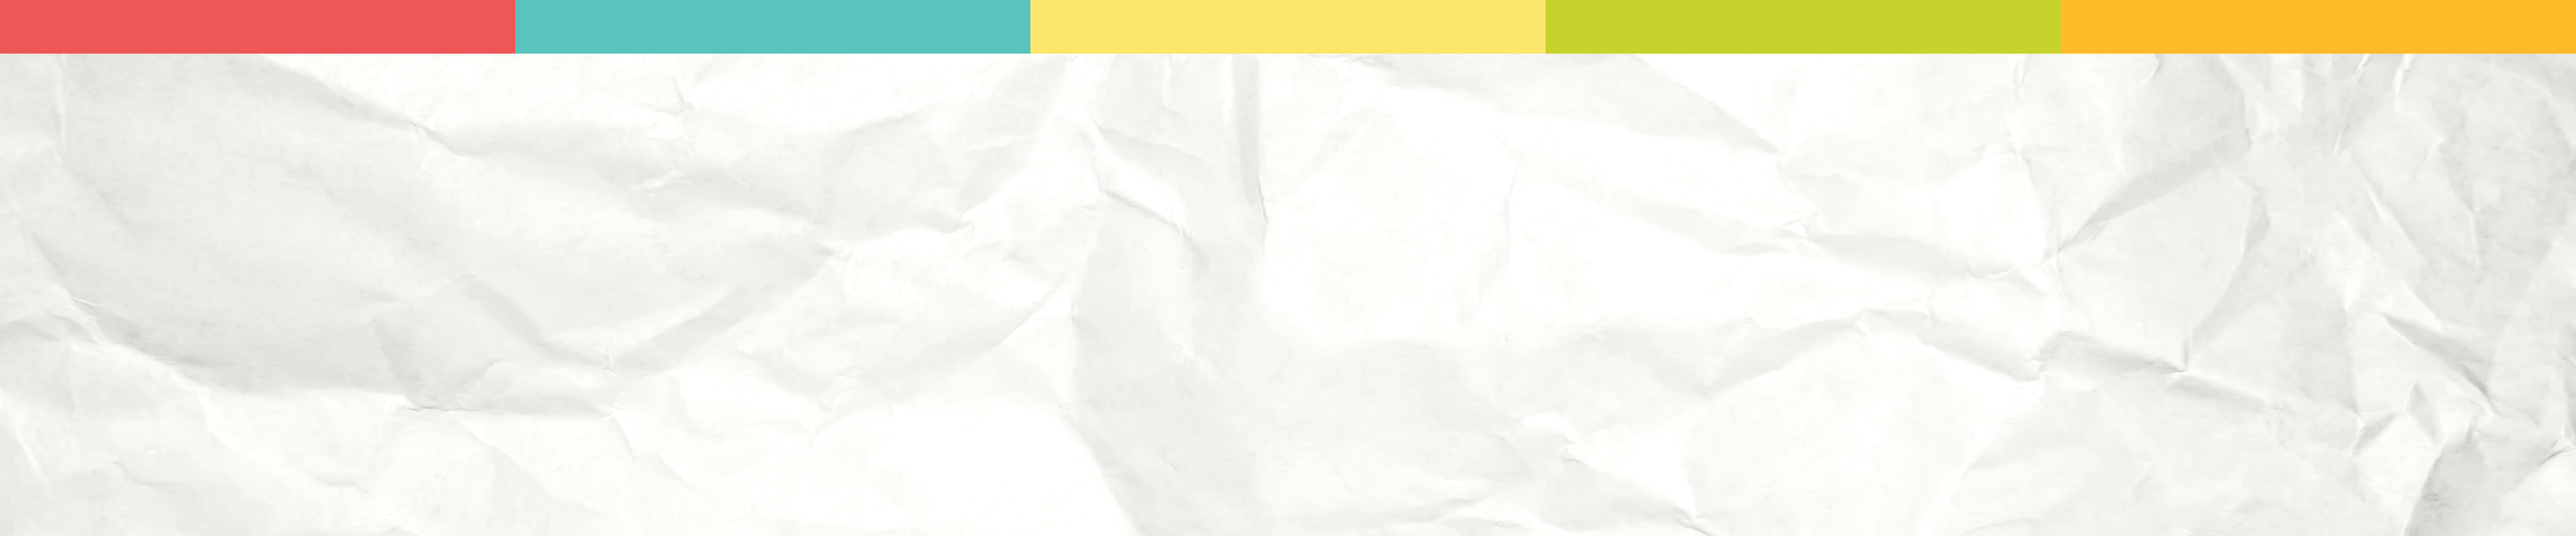
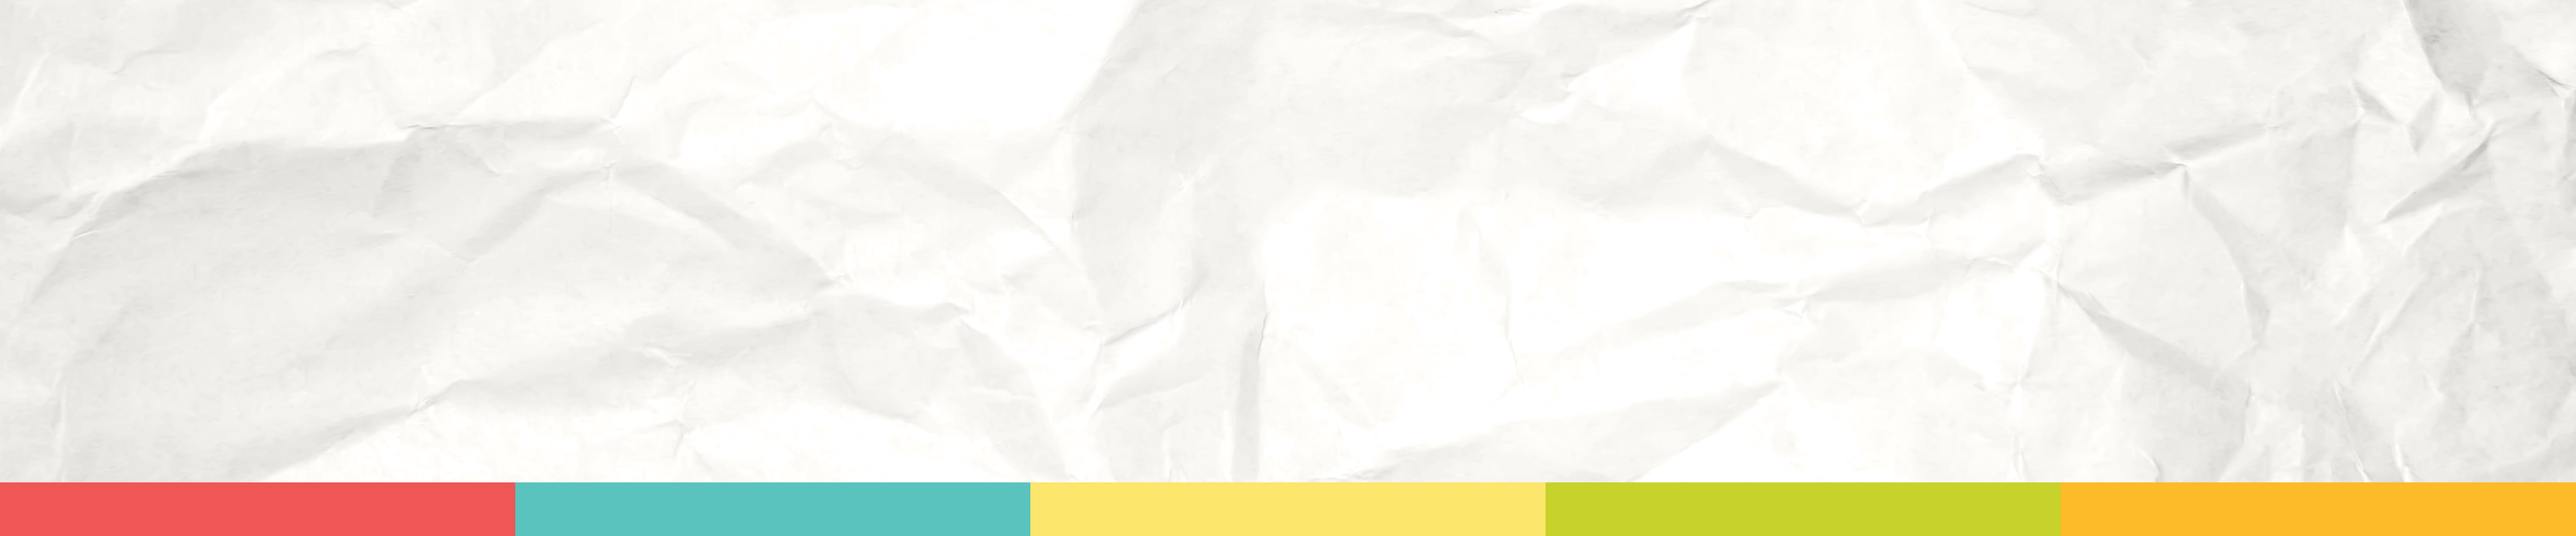
Minor touchups

diff --git a/assets/css/main.css b/assets/css/main.css
@@ -1,3 +1,4 @@
+body { background: #fffefa }
 body,
 input,
 .ui.input input,
@@ -55,16 +56,17 @@ a {
 #banner {
   background: url(../img/dayofbanner-01.png);
   background-size: cover;
-  background-position: center top;
+  background-position: center bottom;
   margin-top: 12px;
   margin-bottom: 36px;
 }
 
 #banner .content{
   text-transform: uppercase;
+  font-family: 'Montserrat', sans-serif;
   font-size: 3em;
-    color: black;
-    font-weight: 300;
+    color: #0b3b4b;
+    font-weight: 600;
   text-align: center;
   padding: 1em 0;
 }
@@ -88,12 +90,12 @@ a {
 
 .ui.hack.button.completed {
   background: rgb(35, 177, 150);
-  color: white;
+  color: #fffefa;
 }
 
 .ui.hack.button:hover {
   background: rgb(35, 177, 150);
-  color: white;
+  color: #fffefa;
 }
 
 .display {
@@ -145,7 +147,7 @@ table.ui tr td.active.current-events {
   background-color: #473899 !important;
   border-radius: 5px 5px 0 0;
   padding: 1em !important;
-  color: white !important;
+  color: #fffefa !important;
 }
 
 table.current-events-table {

diff --git a/assets/js/hackmit_events.js b/assets/js/hackmit_events.js
@@ -18,7 +18,7 @@ var HMIT_EVTS = [
     [8, 9.5, "Hacker Check-in + Breakfast", "Tent", 2],
     [8, 10, "Sponsor Check-in", "Tent", 0],
     [9.5, 10, "Walk-in Registration + Team Formation", "Tent", 0],
-    [10, 11, "The Opening Ceremony", "Rockwell", 0],
+    [10, 11, "Opening Ceremony", "Rockwell", 0],
     [11, 11.5, "Mentor Orientation", "Media Room", 0],
     [12, 13, "Lunch", "Tent", 2],
     [13.5, 14, "Amadeus Tech Talk", "Media Room", 1],
@@ -45,5 +45,5 @@ var HMIT_EVTS = [
     [34.5, 35, "Judging Orientation", "Media Room", 0],
     [35, 37, "Expo Judging", "Johnson Ice Rink", 0],
     [37, 38, "Sponsor + Panel Judging", "Johnson Ice Rink", 0],
-    [38, 39, "The Closing Ceremony", "Rockwell", 0]
+    [38, 39, "Closing Ceremony", "Rockwell", 0]
 ];

diff --git a/maps/index.html b/maps/index.html
@@ -129,6 +129,9 @@
         Map of HackMIT
       </div>
       <img src="../assets/img/map.png" /><br /><br />
+      <div class="ui header">
+        Johnson Ice Rink
+      </div>
       <img src="../assets/img/map2.png" />
     </div>
     <div class="column">

diff --git a/prizes/index.html b/prizes/index.html
@@ -118,6 +118,7 @@
 </div>
 
 <center><h1>Sponsor Prizes</h1></center>
+<center><h3>See sponsor booths for details </h3></center>
 <div class="ui stackable page grid" id="sponsor-prize-container">
   <!-- populated dynamically -->
 </div>
